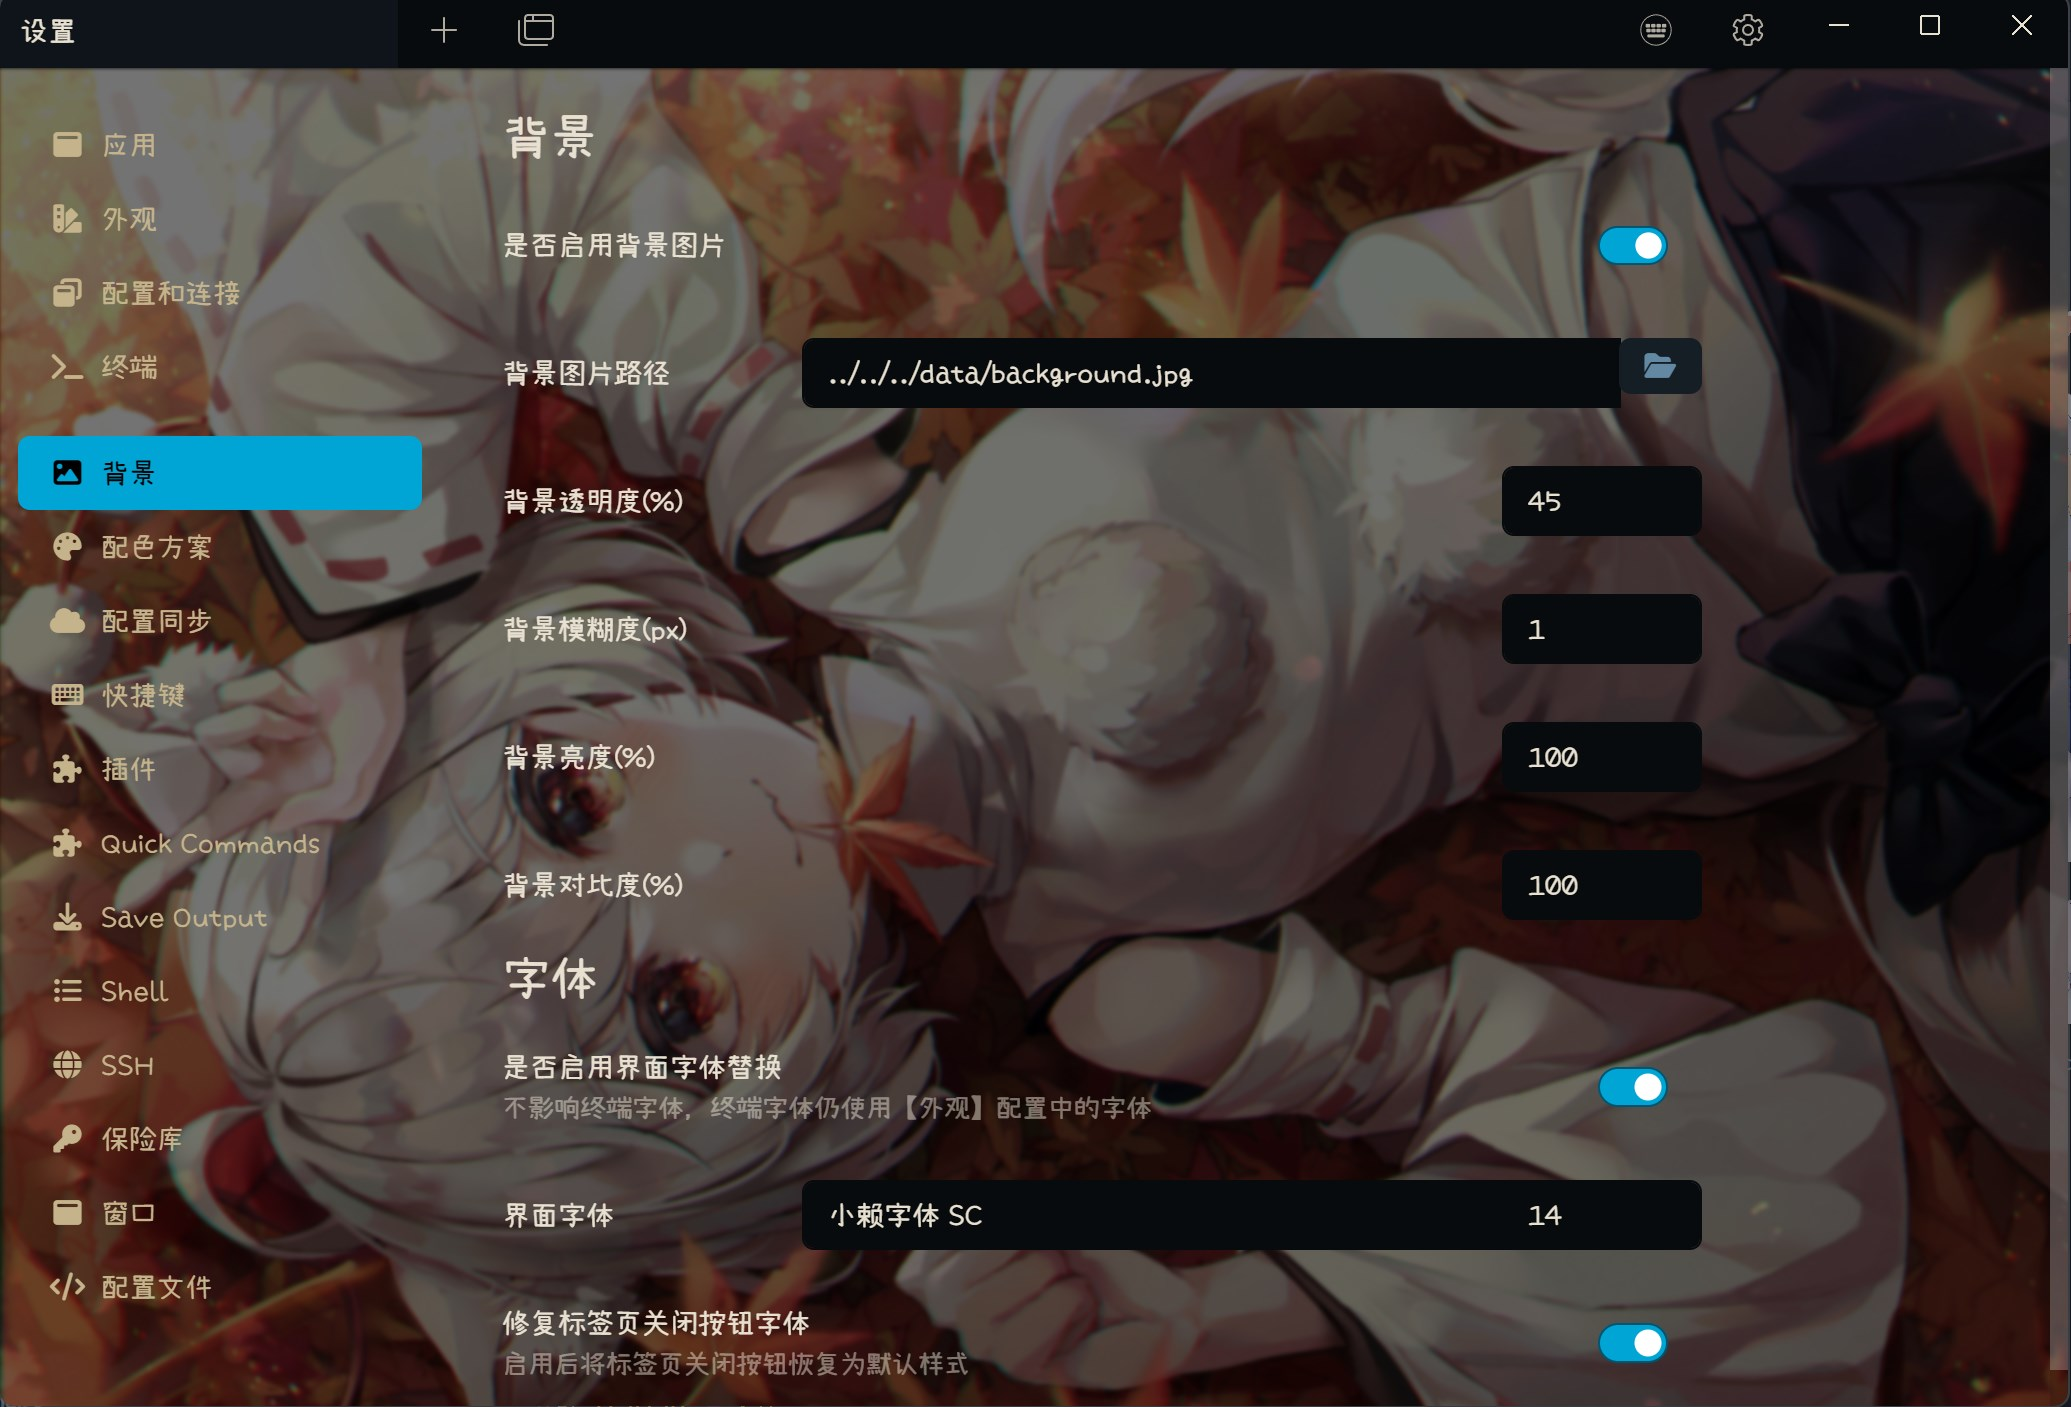
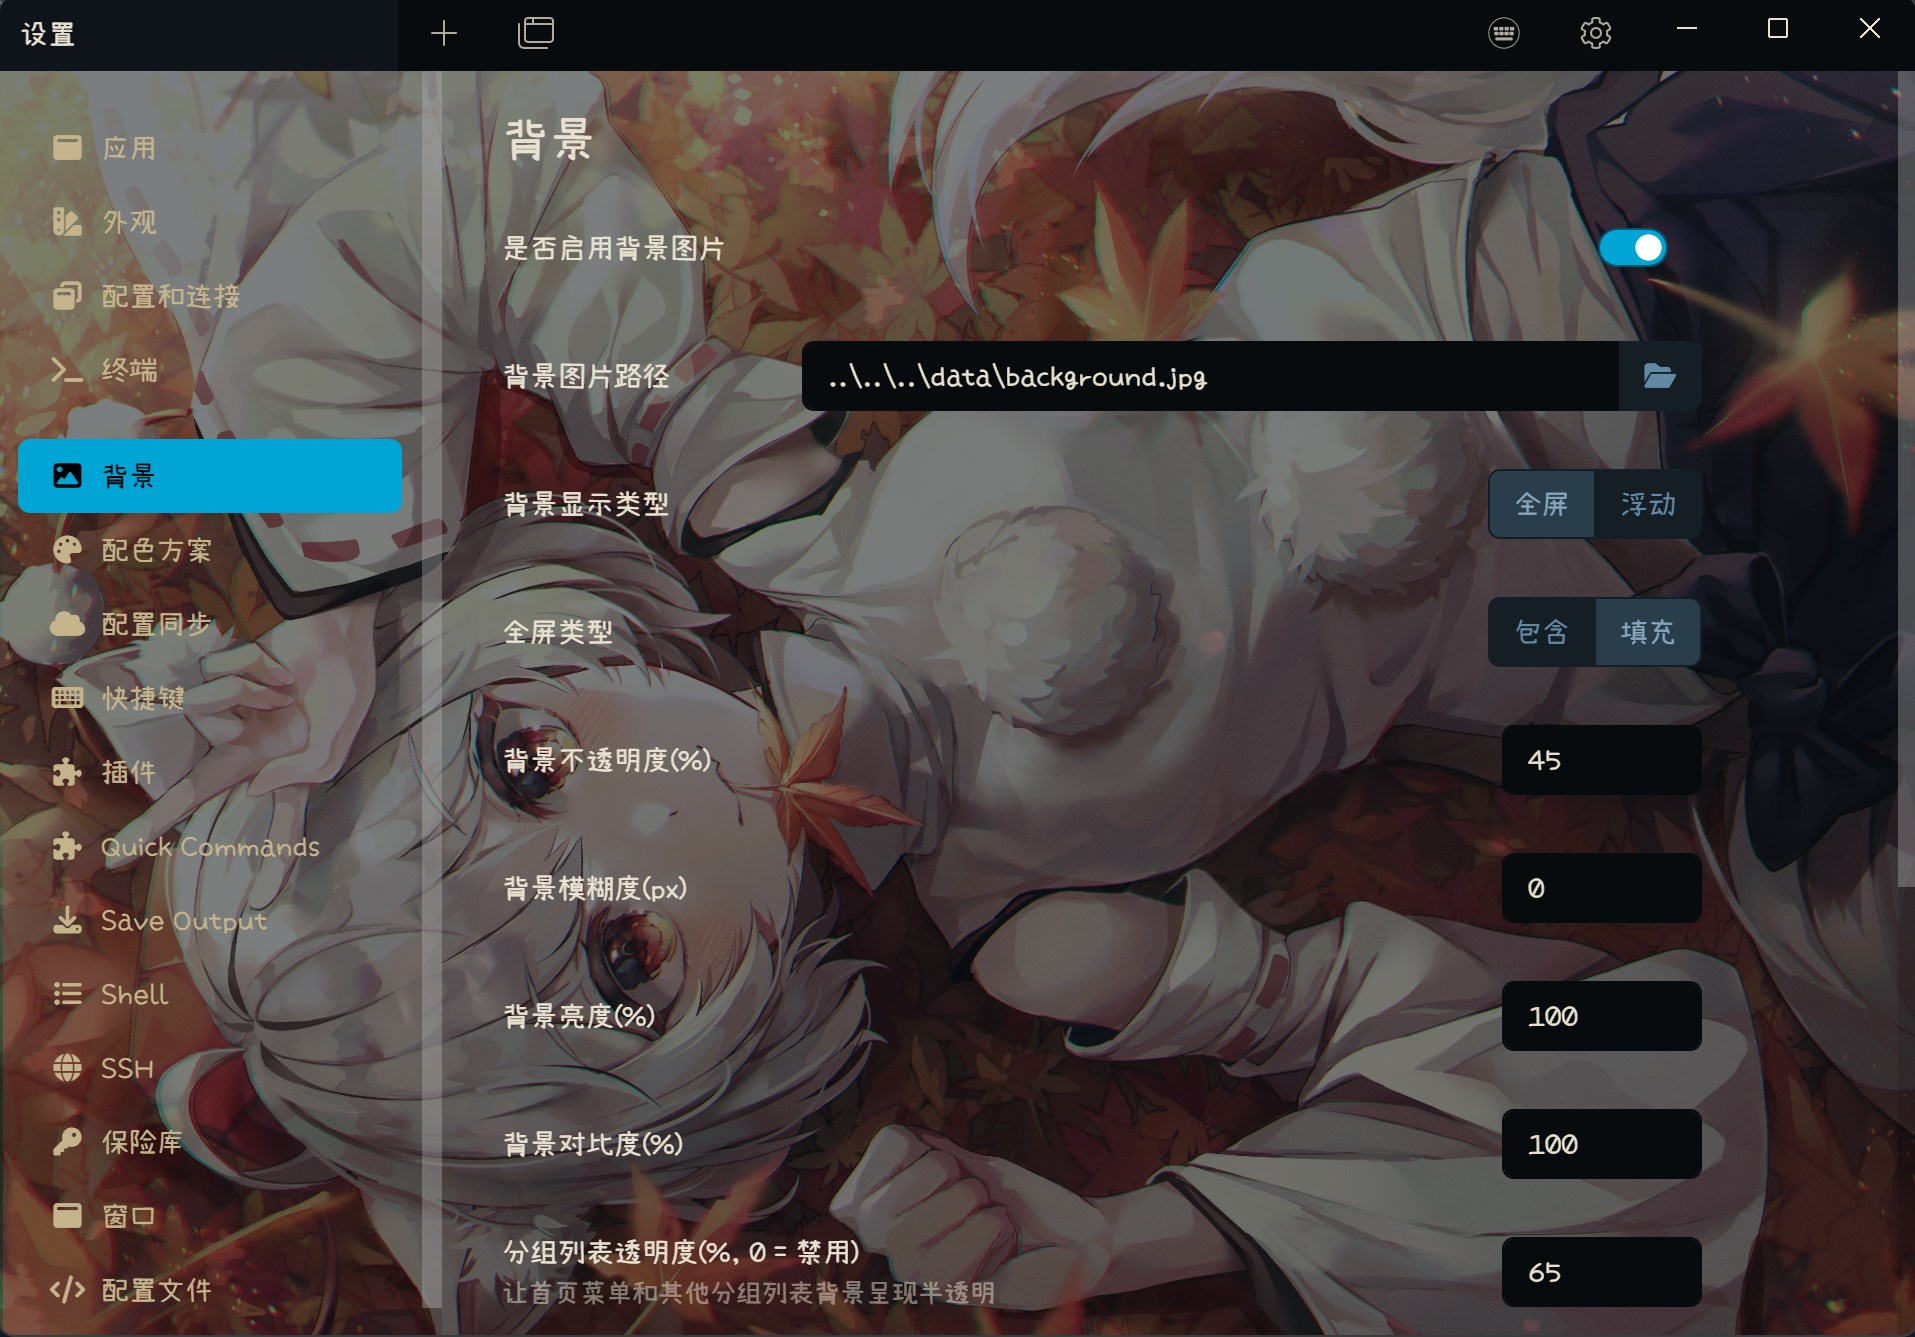
add more settings.

diff --git a/src/translations.ts b/src/translations.ts
@@ -2,6 +2,21 @@ type BackgroundPluginTranslations = {
   Background: string;
   "Enable background": string;
   "Background path": string;
+  "Background show type": string;
+  Fullscreen: string;
+  Float: string;
+  "Fullscreen type": string;
+  Contain: string;
+  Cover: string;
+  "Repeat type": string;
+  Repeat: string;
+  "No Repeat": string;
+  "Float size(px)": string;
+  "Float X offset(px)": string;
+  "Float Y offset(px)": string;
+  "Float X align": string;
+  Center: string;
+  "Float Y align": string;
   "Background opacity(%)": string;
   "Background blur(px)": string;
   "Background brightness(%)": string;
@@ -28,19 +43,37 @@ export const translations: [string, BackgroundPluginTranslations][] = [
       Background: "背景",
       "Enable background": "是否启用背景图片",
       "Background path": "背景图片路径",
+      "Background show type": "背景显示类型",
+      Fullscreen: "全屏",
+      Float: "浮动",
+      "Fullscreen type": "全屏类型",
+      Contain: "包含",
+      Cover: "填充",
+      "Repeat type": "重复类型",
+      Repeat: "重复",
+      "No Repeat": "不重复",
+      "Float size(px)": "浮动大小",
+      "Float X offset(px)": "浮动X偏移",
+      "Float Y offset(px)": "浮动Y偏移",
+      "Float X align": "浮动X对齐",
+      Center: "中央",
+      "Float Y align": "浮动Y对齐",
       "Background opacity(%)": "背景不透明度(%)",
       "Background blur(px)": "背景模糊度(px)",
       "Background brightness(%)": "背景亮度(%)",
       "Background contrast(%)": "背景对比度(%)",
       "Group list transparent(%, 0 = disable)": "分组列表透明度(%, 0 = 禁用)",
-      "Make home page menu and other group list background transparent": "让首页菜单和其他分组列表背景呈现半透明",
+      "Make home page menu and other group list background transparent":
+        "让首页菜单和其他分组列表背景呈现半透明",
 
       "UI Font": "字体",
       "Enable UI font replace": "是否启用界面字体替换",
-      "Do not affect the terminal font, the terminal font still uses the font in the [appearance] configuration": "不影响终端字体，终端字体仍使用【外观】配置中的字体",
+      "Do not affect the terminal font, the terminal font still uses the font in the [appearance] configuration":
+        "不影响终端字体，终端字体仍使用【外观】配置中的字体",
       "UI Font Family": "界面字体",
       "Fix close button font": "修复标签页关闭按钮字体",
-      "After enable, restore the tab closing button to the default style": "启用后将标签页关闭按钮恢复为默认样式",
+      "After enable, restore the tab closing button to the default style":
+        "启用后将标签页关闭按钮恢复为默认样式",
 
       "Enable Tabs parameter override": "启用标签页参数覆盖",
       "Tabs dynamic width min(px)": "动态标签页宽度最小宽度(px)",

diff --git a/src/cssBuilder.ts b/src/cssBuilder.ts
@@ -1,8 +1,73 @@
-export function background(path: string, opacity: number, blur: number, brightness: number, contrast: number) {
-  return `
+import {
+  FloatXAlign,
+  FloatYAlign,
+  FullscreenRepeatType,
+  FullscreenType,
+  ShowType,
+} from "configProvider";
+
+export function background(
+  path: string,
+  showType: ShowType,
+  fullscreenType: FullscreenType,
+  fullscreenRepeatType: FullscreenRepeatType,
+  floatSize: number,
+  floatX: number,
+  floatY: number,
+  floatXAlign: FloatXAlign,
+  floatYAlign: FloatYAlign,
+  opacity: number,
+  blur: number,
+  brightness: number,
+  contrast: number
+) {
+  const originalBgCss = `
 .content-tab-active {
   background: none;
 }
+
+.content-tab-active::after {
+  content: "";
+  position: fixed;
+  left: 0;
+  right: 0;
+  z-index: -2;
+  display: block;
+  width: 100%;
+  height: 100%;
+
+  background: var(--body-bg);
+}
+start-page.content-tab-active::after {
+  background: var(--theme-bg-more-2);
+}\n`;
+
+  let css = originalBgCss;
+
+  if (showType === "fullscreen") {
+    css += `
+.content-tab-active::before {
+  content: "";
+  position: fixed;
+  left: 0;
+  right: 0;
+  z-index: -1;
+  display: block;
+  width: 100%;
+  height: 100%;
+
+  filter: opacity(${opacity}%)
+  blur(${blur}px)
+  brightness(${brightness}%)
+  contrast(${contrast}%);
+
+  background-image: url("${path}");
+  background-repeat: ${fullscreenRepeatType};
+  background-position: center;
+  background-size: ${fullscreenType};
+}\n`;
+  } else if (showType === "float") {
+    css += `
 .content-tab-active::before {
   content: "";
   position: fixed;
@@ -20,9 +85,15 @@ export function background(path: string, opacity: number, blur: number, brightne
 
   background-image: url("${path}");
   background-repeat: no-repeat;
-  background-position: center;
-  background-size: cover;
+  background-position: 
+  ${floatXAlign === "center" ? floatXAlign : `${floatXAlign} ${floatX}px`} 
+  ${floatYAlign === "center" ? floatYAlign : `${floatYAlign} ${floatY}px`}; 
+  background-size: ${floatSize}px;
 }\n`;
+  } else {
+    throw new Error("ShowType Error!");
+  }
+  return css;
 }
 
 export function backgroundListGroupTransparent(transparent: number) {

diff --git a/src/configProvider.ts b/src/configProvider.ts
@@ -1,8 +1,23 @@
 import { ConfigProvider } from "tabby-core";
 
+export type ShowType = "fullscreen" | "float";
+export type FullscreenType = "contain" | "cover";
+export type FullscreenRepeatType = "repeat" | "no-repeat";
+
+export type FloatXAlign = "left" | "center" | "right";
+export type FloatYAlign = "top" | "center" | "bottom";
+
 export type BackgroundPluginConfig = {
   backgroundEnabled: boolean;
   backgroundPath: string;
+  backgroundShowType: ShowType;
+  backgroundFullscreenType: FullscreenType;
+  backgroundFullscreenRepeatType: FullscreenRepeatType;
+  backgroundFloatSize: number;
+  backgroundFloatX: number;
+  backgroundFloatY: number;
+  backgroundFloatXAlign: FloatXAlign;
+  backgroundFloatYAlign: FloatYAlign;
   backgroundOpacity: number;
   backgroundBlur: number;
   backgroundBrightness: number;
@@ -23,6 +38,14 @@ export class BackgroundConfigProvider extends ConfigProvider {
     backgroundPlugin: {
       backgroundEnabled: false,
       backgroundPath: "../../../data/background.jpg",
+      backgroundShowType: "fullscreen",
+      backgroundFullscreenType: "cover",
+      backgroundFullscreenRepeatType: "no-repeat",
+      backgroundFloatSize: 300,
+      backgroundFloatX: 0,
+      backgroundFloatY: 0,
+      backgroundFloatXAlign: "right",
+      backgroundFloatYAlign: "bottom",
       backgroundOpacity: 45,
       backgroundBlur: 0,
       backgroundBrightness: 100,

diff --git a/src/background.service.ts b/src/background.service.ts
@@ -25,6 +25,14 @@ export class BackgroundService {
     const backgroundPluginConfig = this.config.store.backgroundPlugin as BackgroundPluginConfig;
     const {
       backgroundEnabled,
+      backgroundShowType,
+      backgroundFullscreenType,
+      backgroundFullscreenRepeatType,
+      backgroundFloatSize,
+      backgroundFloatX,
+      backgroundFloatY,
+      backgroundFloatXAlign,
+      backgroundFloatYAlign,
       backgroundOpacity,
       backgroundBlur,
       backgroundBrightness,
@@ -40,6 +48,14 @@ export class BackgroundService {
     if (backgroundEnabled) {
       css += cssBuilder.background(
         backgroundPath,
+        backgroundShowType,
+        backgroundFullscreenType,
+        backgroundFullscreenRepeatType,
+        backgroundFloatSize,
+        backgroundFloatX,
+        backgroundFloatY,
+        backgroundFloatXAlign,
+        backgroundFloatYAlign,
         backgroundOpacity,
         backgroundBlur,
         backgroundBrightness,

diff --git a/README.md b/README.md
@@ -19,6 +19,14 @@ Currently tested on Windows and MacOS.
 
 ## Screenshot
 
+### Settings
+
 ![Alt text](screenshot1.jpg)
 
+### Fullscreen
+
 ![Alt text](screenshot2.jpg)
+
+### Float
+
+![Alt text](screenshot3.png)
